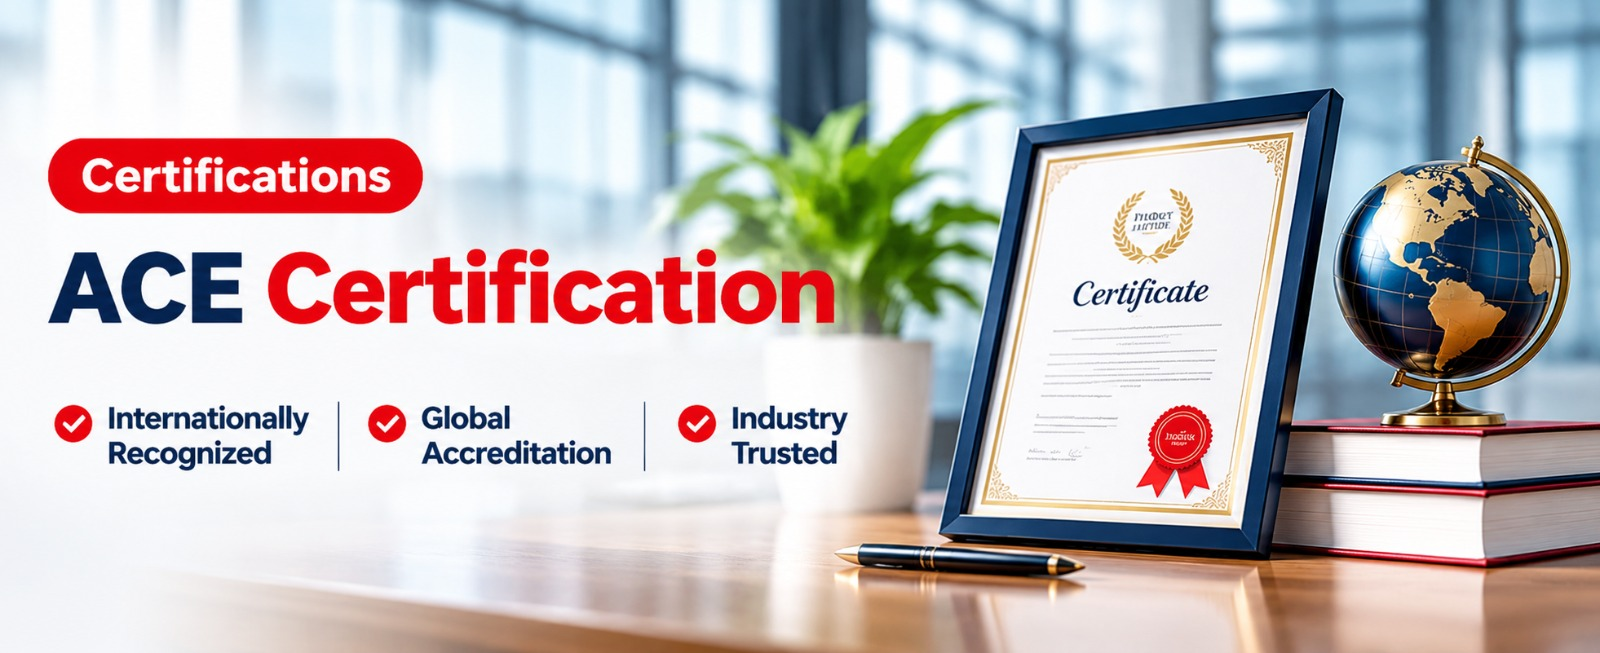
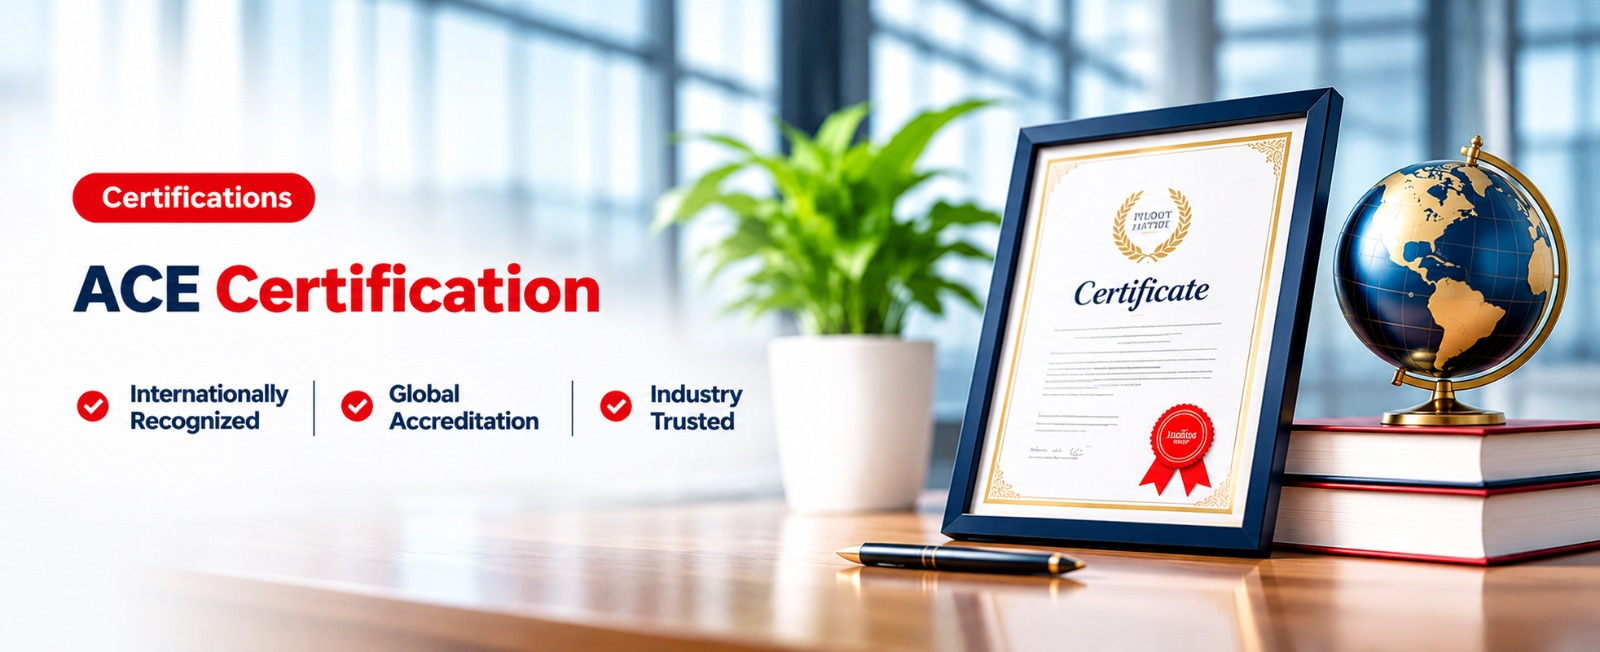
ACE-CERT Update

diff --git a/app/management-certification/ManagementCertificationDirectory.js b/app/management-certification/ManagementCertificationDirectory.js
@@ -44,7 +44,7 @@ export default function ManagementCertificationDirectory({ initialStandards }) {
           src="/certification-hero.png"
           alt="A framed certificate beside a globe and books"
           width={1600}
-          height={653}
+          height={652}
           sizes="100vw"
           priority
           className="h-auto w-full"
